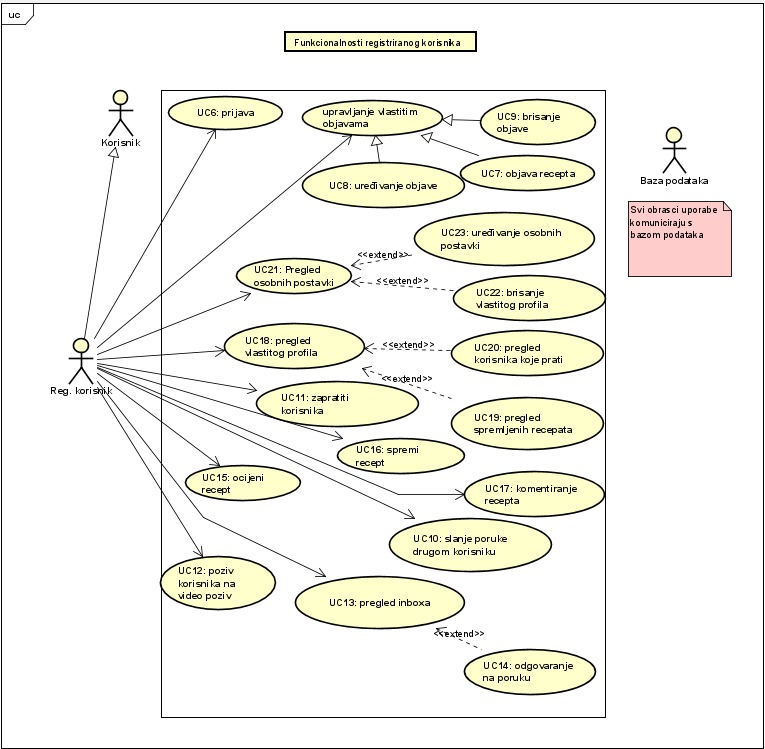
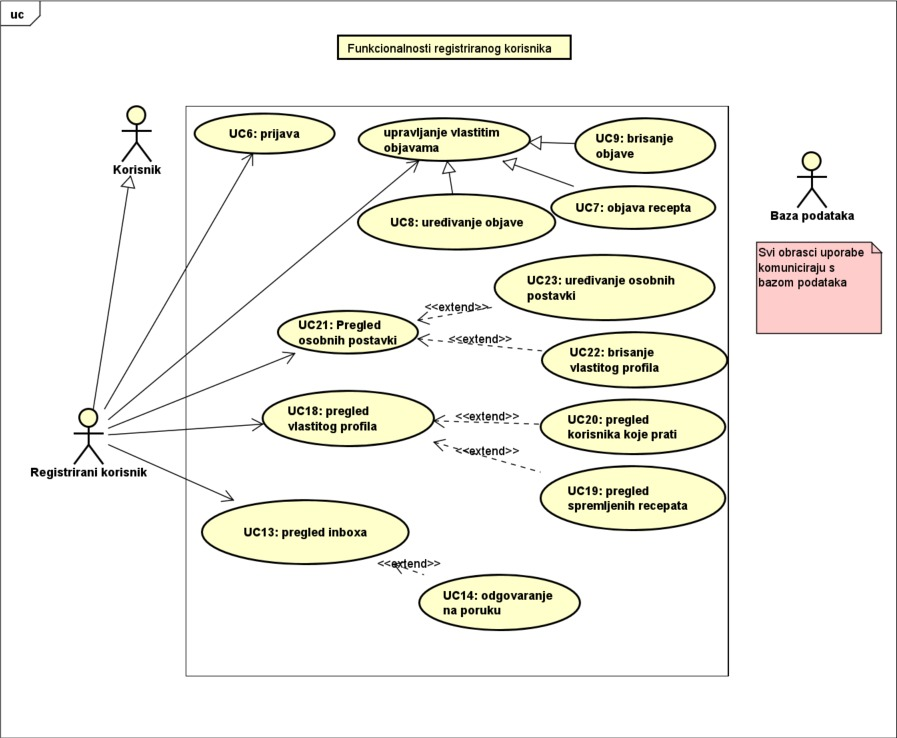
Updated UC diagrams

Changed region(s): [[0.0, 0.0, 1.0, 1.0], [0.2105, 0.9038, 0.2405, 0.9661], [0.2706, 0.3117, 0.3007, 0.3428]]

diff --git a/Dokumentacija/Specifikacija_programske_potpore.tex b/Dokumentacija/Specifikacija_programske_potpore.tex
@@ -678,9 +678,9 @@
 					
 					\textit{Prikazati odnos aktora i obrazaca uporabe odgovarajućim UML dijagramom. Nije nužno nacrtati sve na jednom dijagramu. Modelirati po razinama apstrakcije i skupovima srodnih funkcionalnosti.}
 					\begin{figure}[H]
-						\includegraphics[scale=0.4]{slike/UC_nereg.jpeg} %veličina slike u odnosu na originalnu datoteku i pozicija slike
+						\includegraphics[scale=0.4]{slike/UC_all.jpeg} %veličina slike u odnosu na originalnu datoteku i pozicija slike
 						\centering
-						\caption{Dijagram obrasca uporabe, funkcionalnost korisnika i neregistriranog korisnika}
+						\caption{Dijagram obrasca uporabe, funkcionalnost korisnika, neregistriranog korisnika i registriranog korisnika}
 						\label{fig:UC_diagram1}
 					\end{figure}
 
